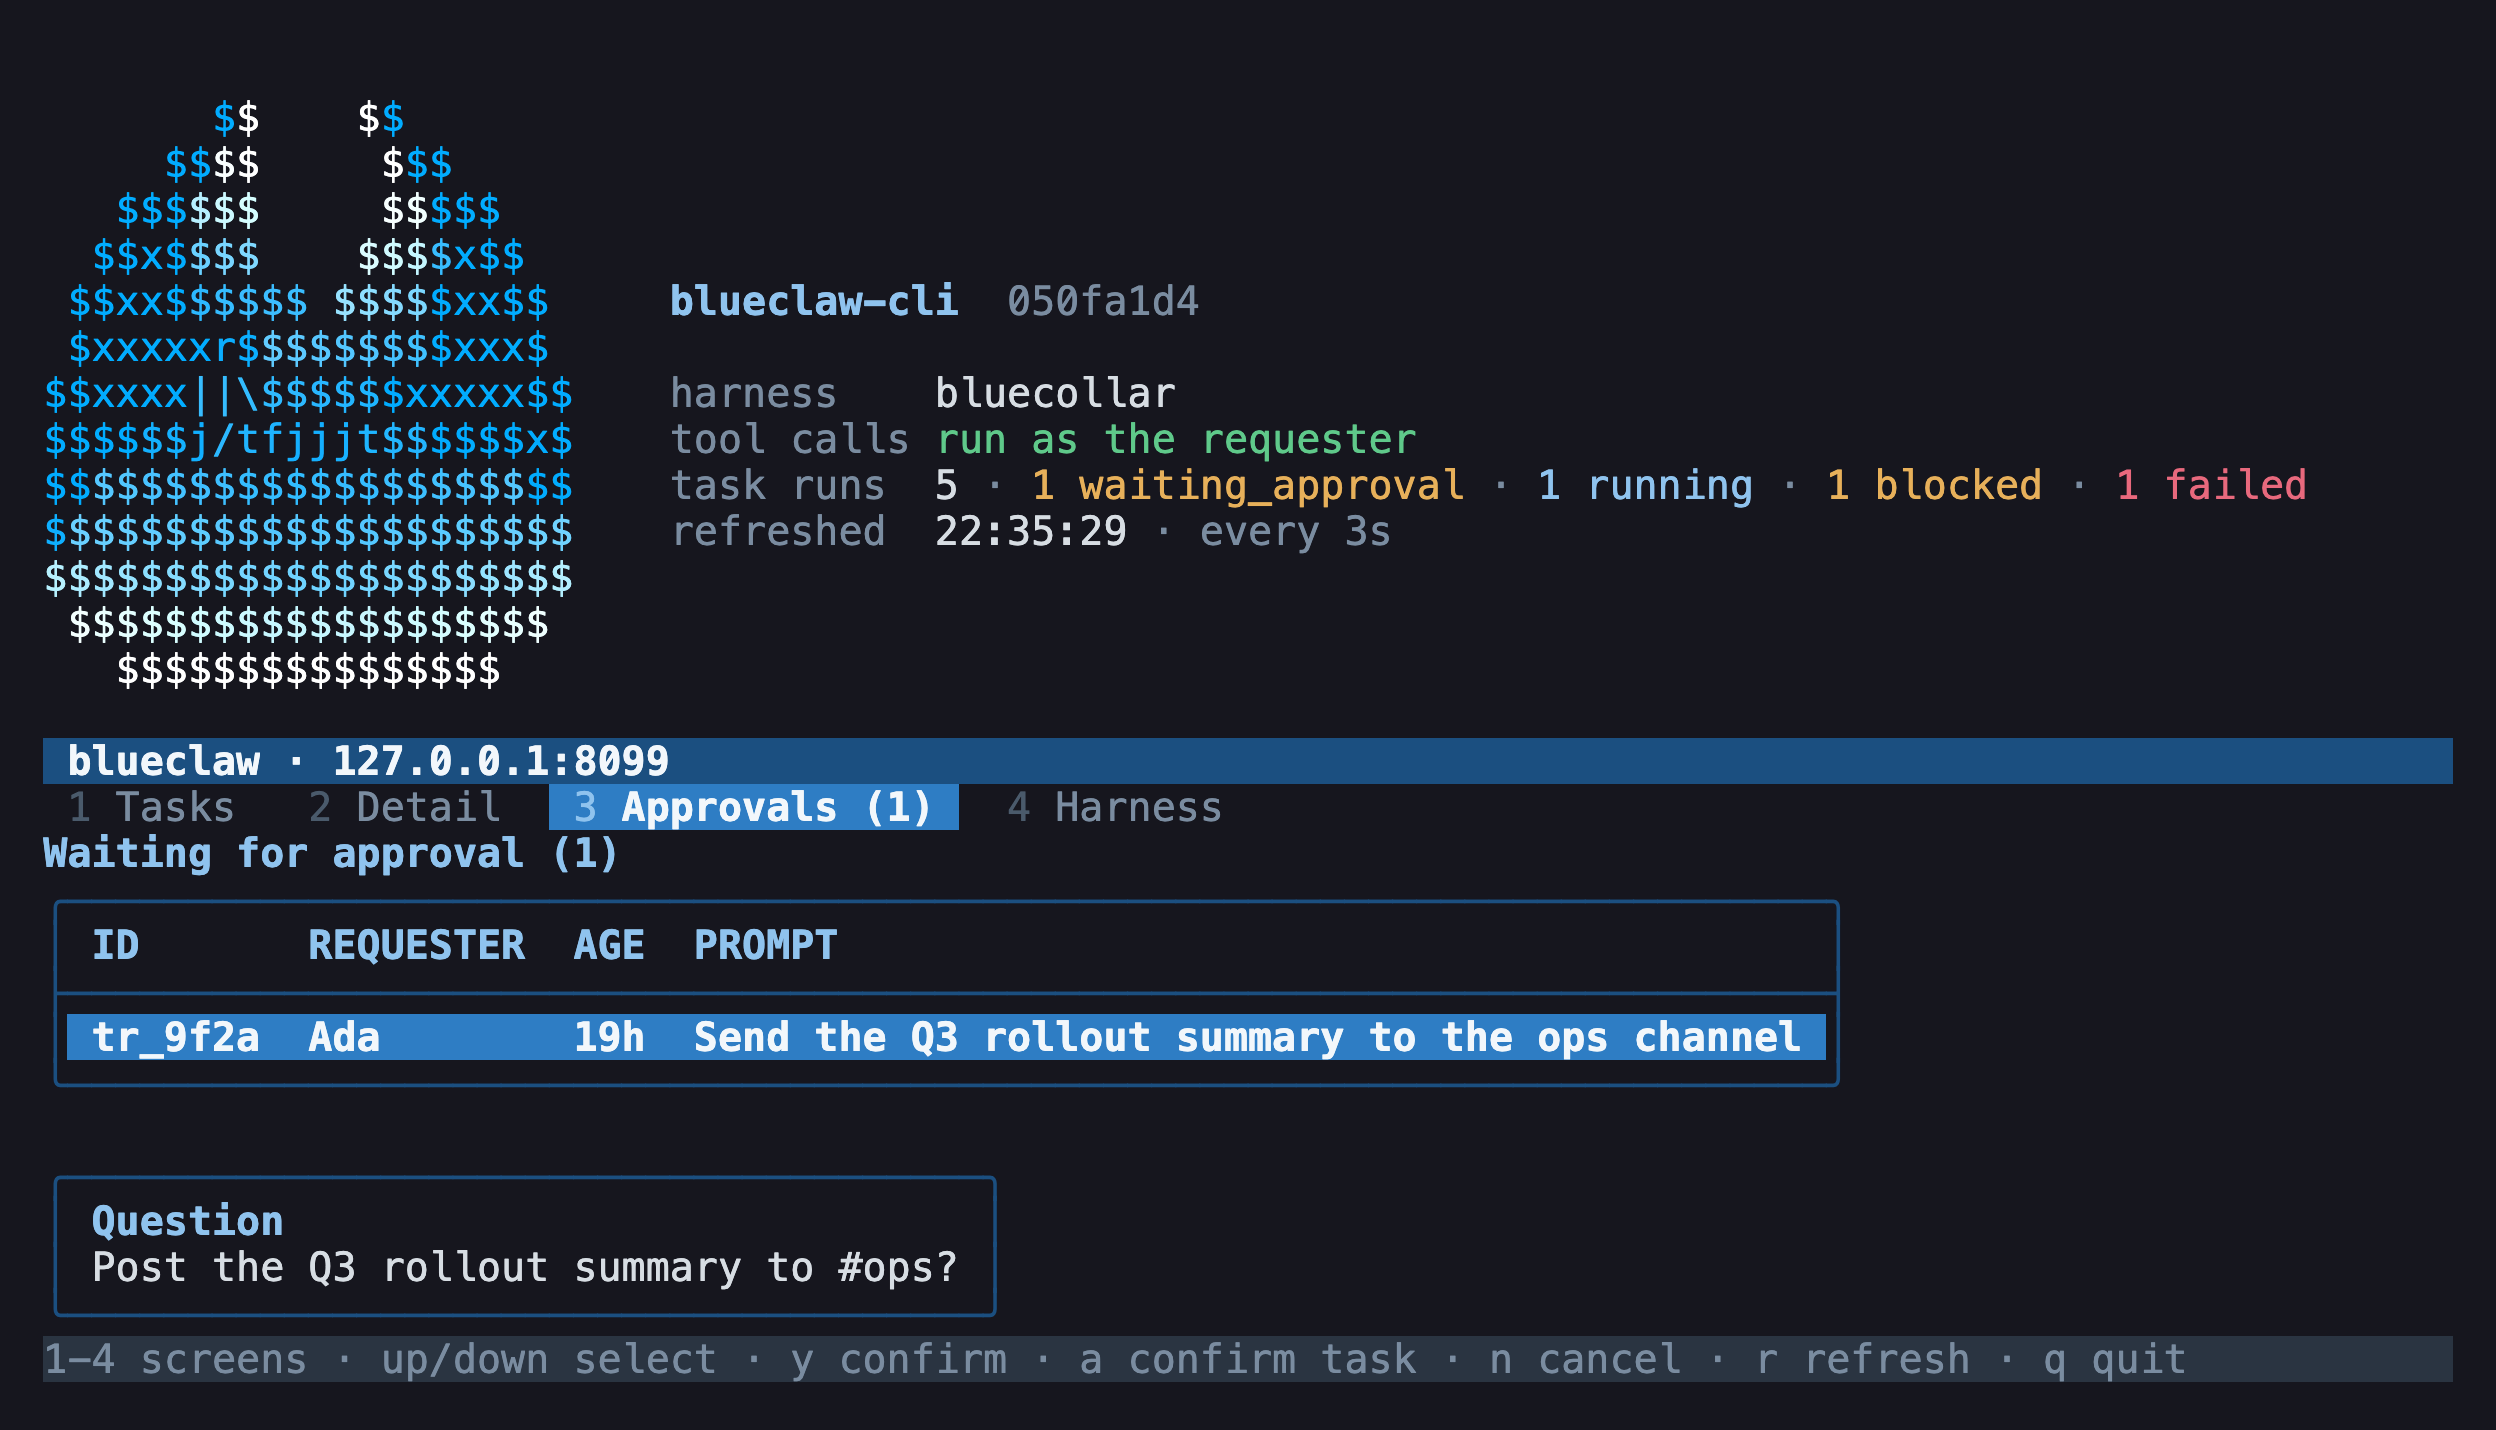
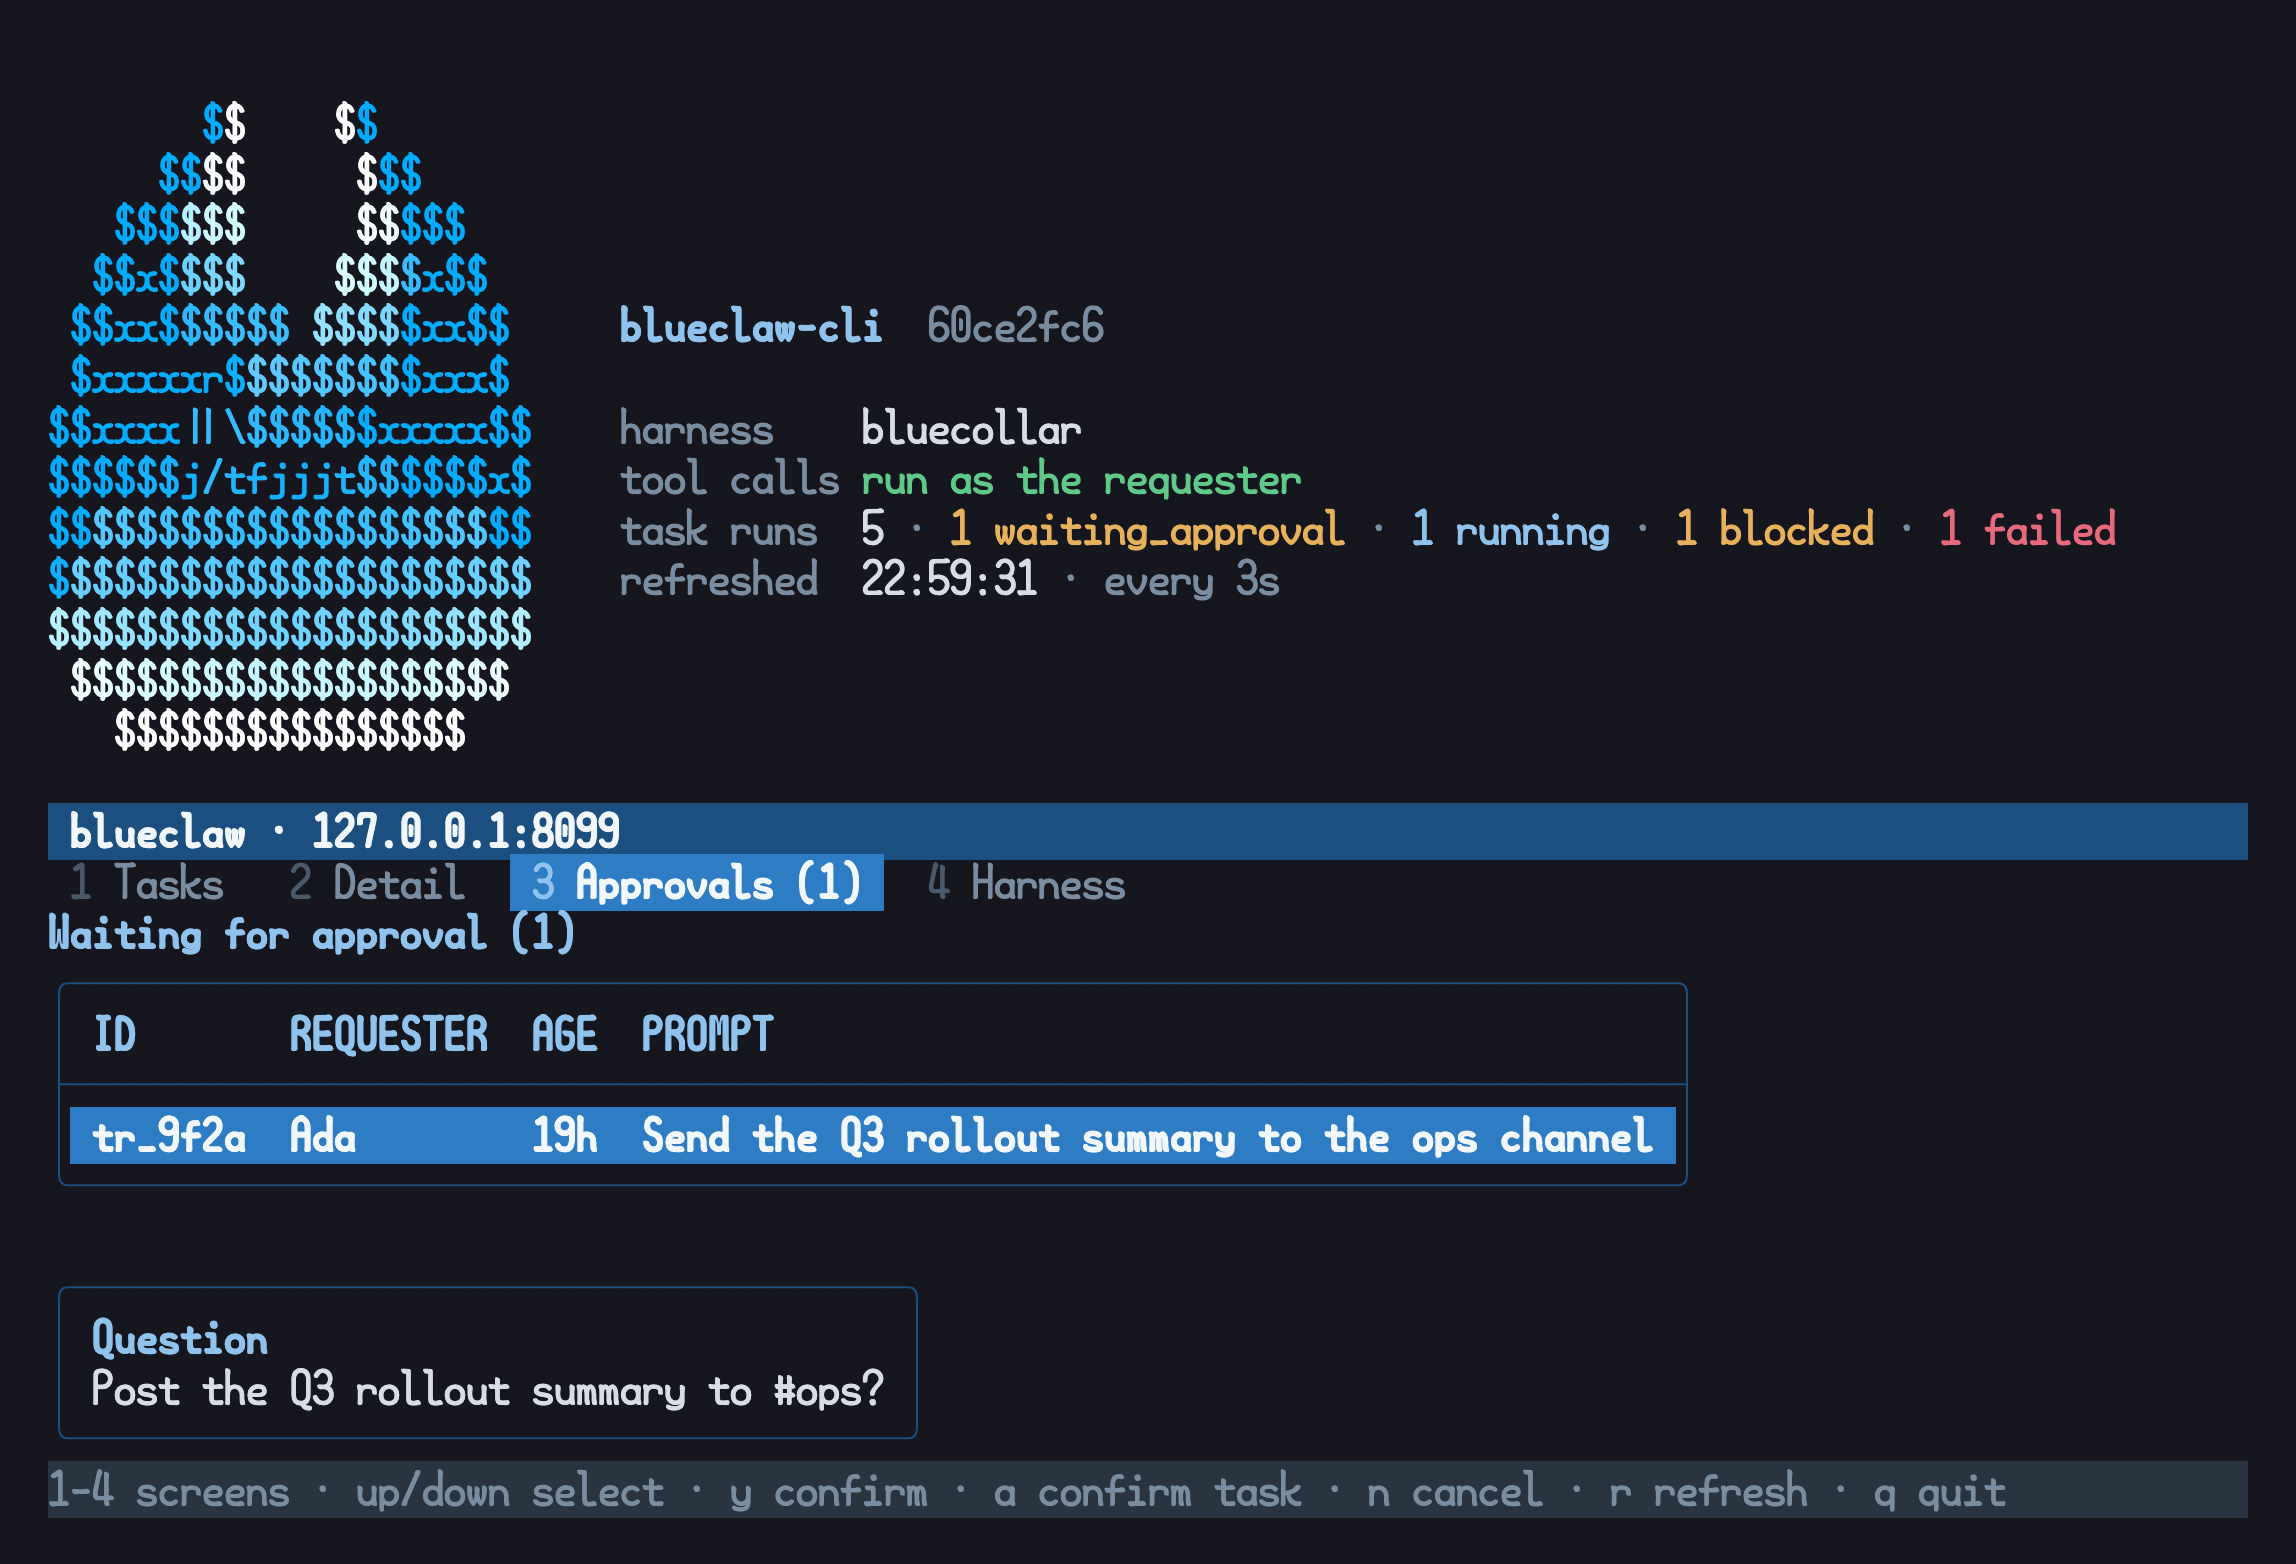
docs: shoot the screenshots in hesalche again
The generated screenshots came out in SF Mono, which is not the face the
README has carried since #13. Name HesalcheMono first in the page's font
stack, and size the page from the advance width the font actually
reports — 0.5em, read from its hmtx table, where the stack's previous
faces were 0.6em. Sizing the window on the wrong ratio left a gutter
down both sides of every image.

diff --git a/tools/tui_screenshots/page.py b/tools/tui_screenshots/page.py
@@ -5,15 +5,16 @@ import html
 from .terminal_capture import Cell
 
 TERMINAL_BACKGROUND = "#16161e"
-FONT_SIZE_PIXELS = 20
+FONT_FAMILY = "'HesalcheMono', 'SF Mono', 'DejaVu Sans Mono', Menlo, monospace"
+FONT_SIZE_PIXELS = 22
 LINE_HEIGHT_RATIO = 1.15
-CELL_WIDTH_RATIO = 0.6
+CELL_WIDTH_RATIO = 0.5
 PADDING_PIXELS = 24
 
 PAGE_TEMPLATE = """<!DOCTYPE html><html><head><meta charset="utf-8"><style>
 html,body{{margin:0;height:100%;background:{background}}}
 body{{display:flex;align-items:center;justify-content:center}}
-pre{{margin:0;padding:{padding}px;font-family:'SF Mono','JetBrains Mono','DejaVu Sans Mono',Menlo,monospace;
+pre{{margin:0;padding:{padding}px;font-family:{fontFamily};
 font-size:{fontSize}px;line-height:{lineHeight};white-space:pre}}
 </style></head><body><pre>{content}</pre></body></html>"""
 
@@ -31,6 +32,7 @@ def render_page(grid: list[list[Cell]]) -> str:
     content = "\n".join("".join(render_cell(cell) for cell in row) for row in grid)
     return PAGE_TEMPLATE.format(
         background=TERMINAL_BACKGROUND,
+        fontFamily=FONT_FAMILY,
         padding=PADDING_PIXELS,
         fontSize=FONT_SIZE_PIXELS,
         lineHeight=LINE_HEIGHT_RATIO,
